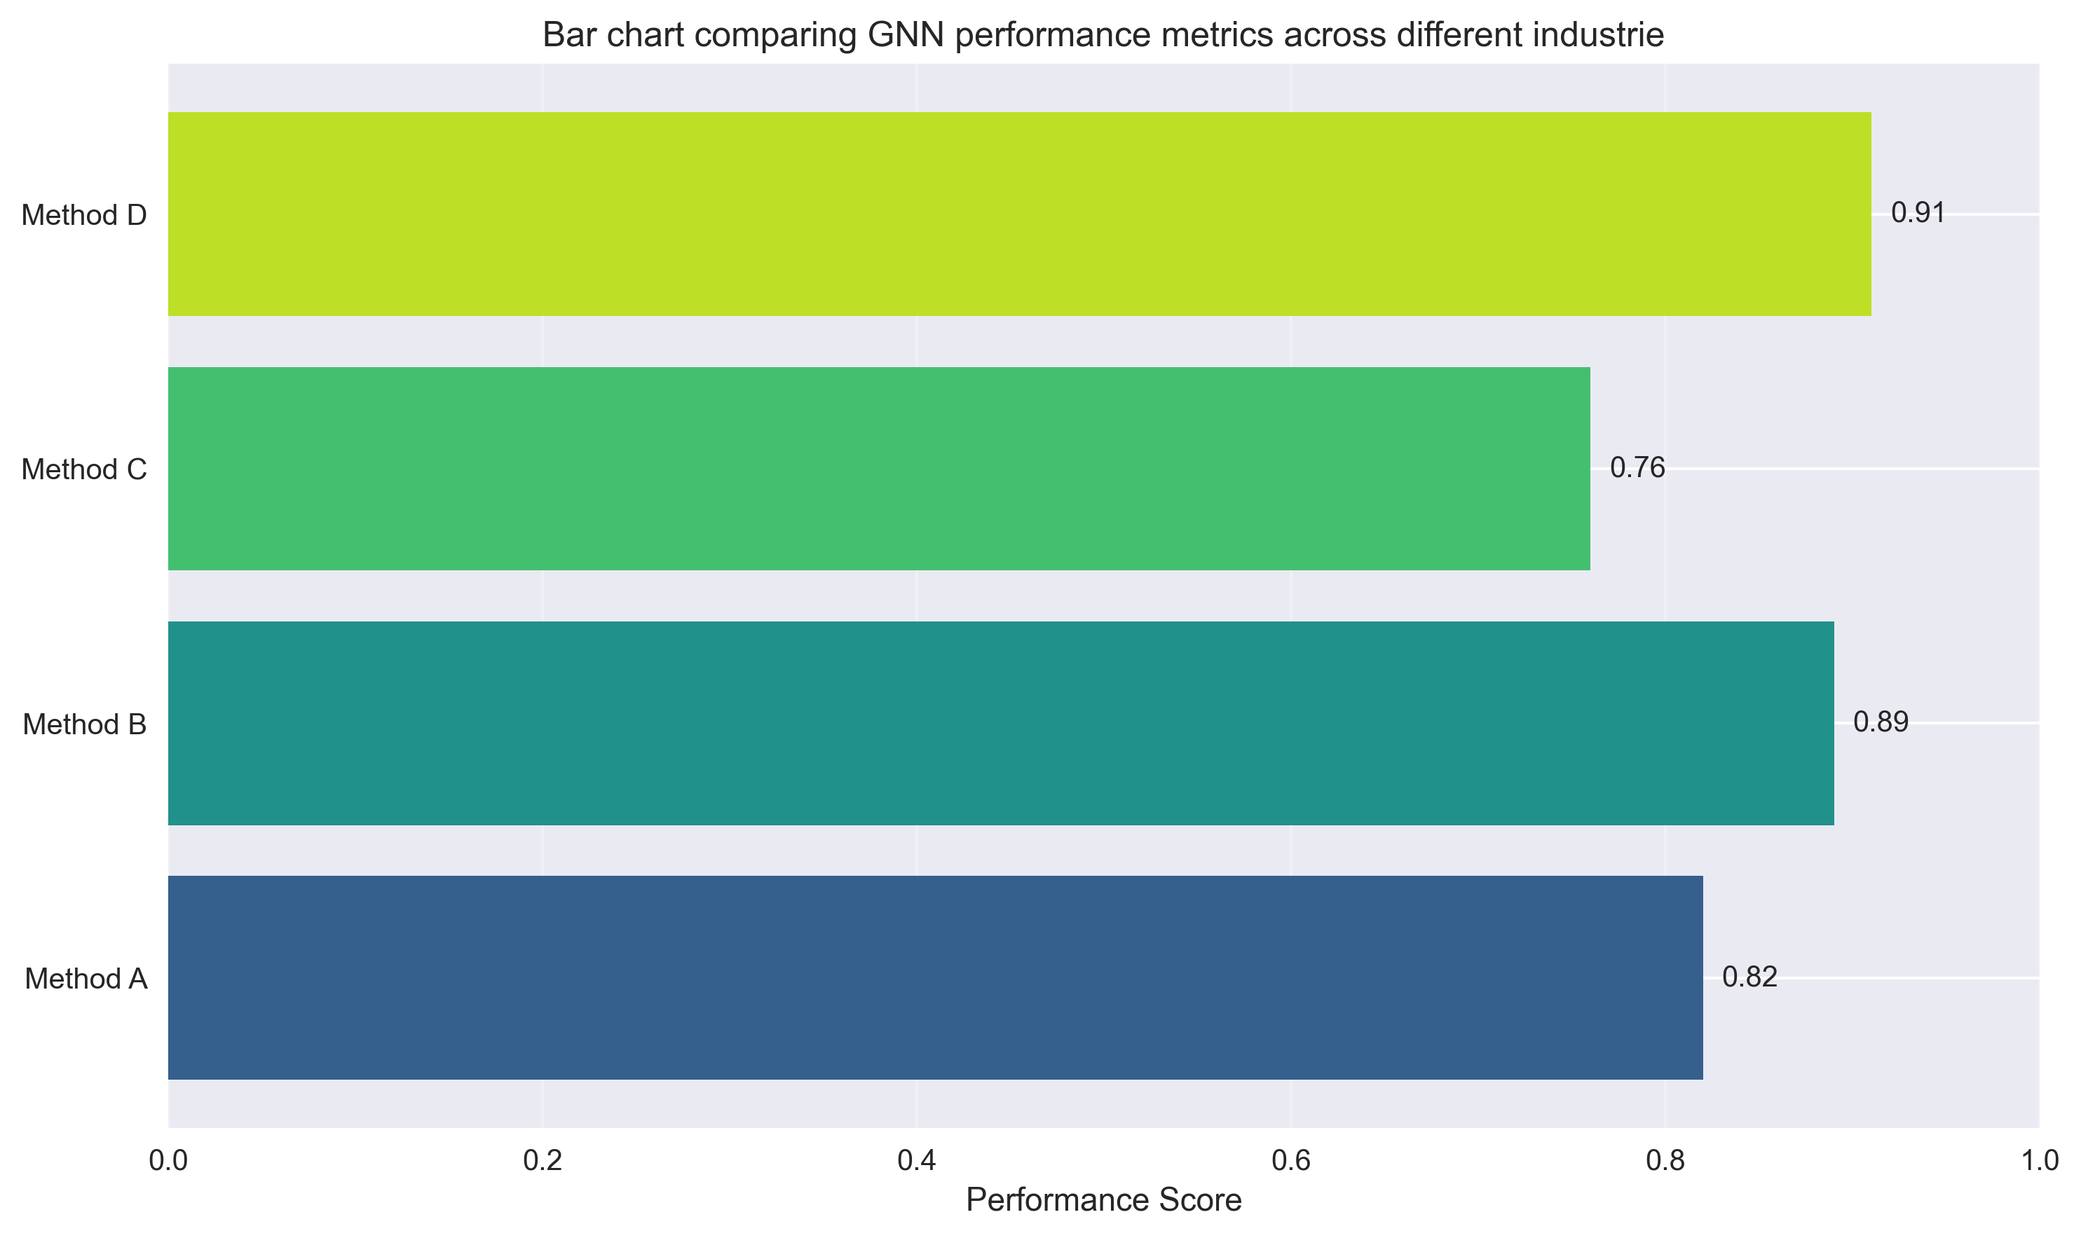
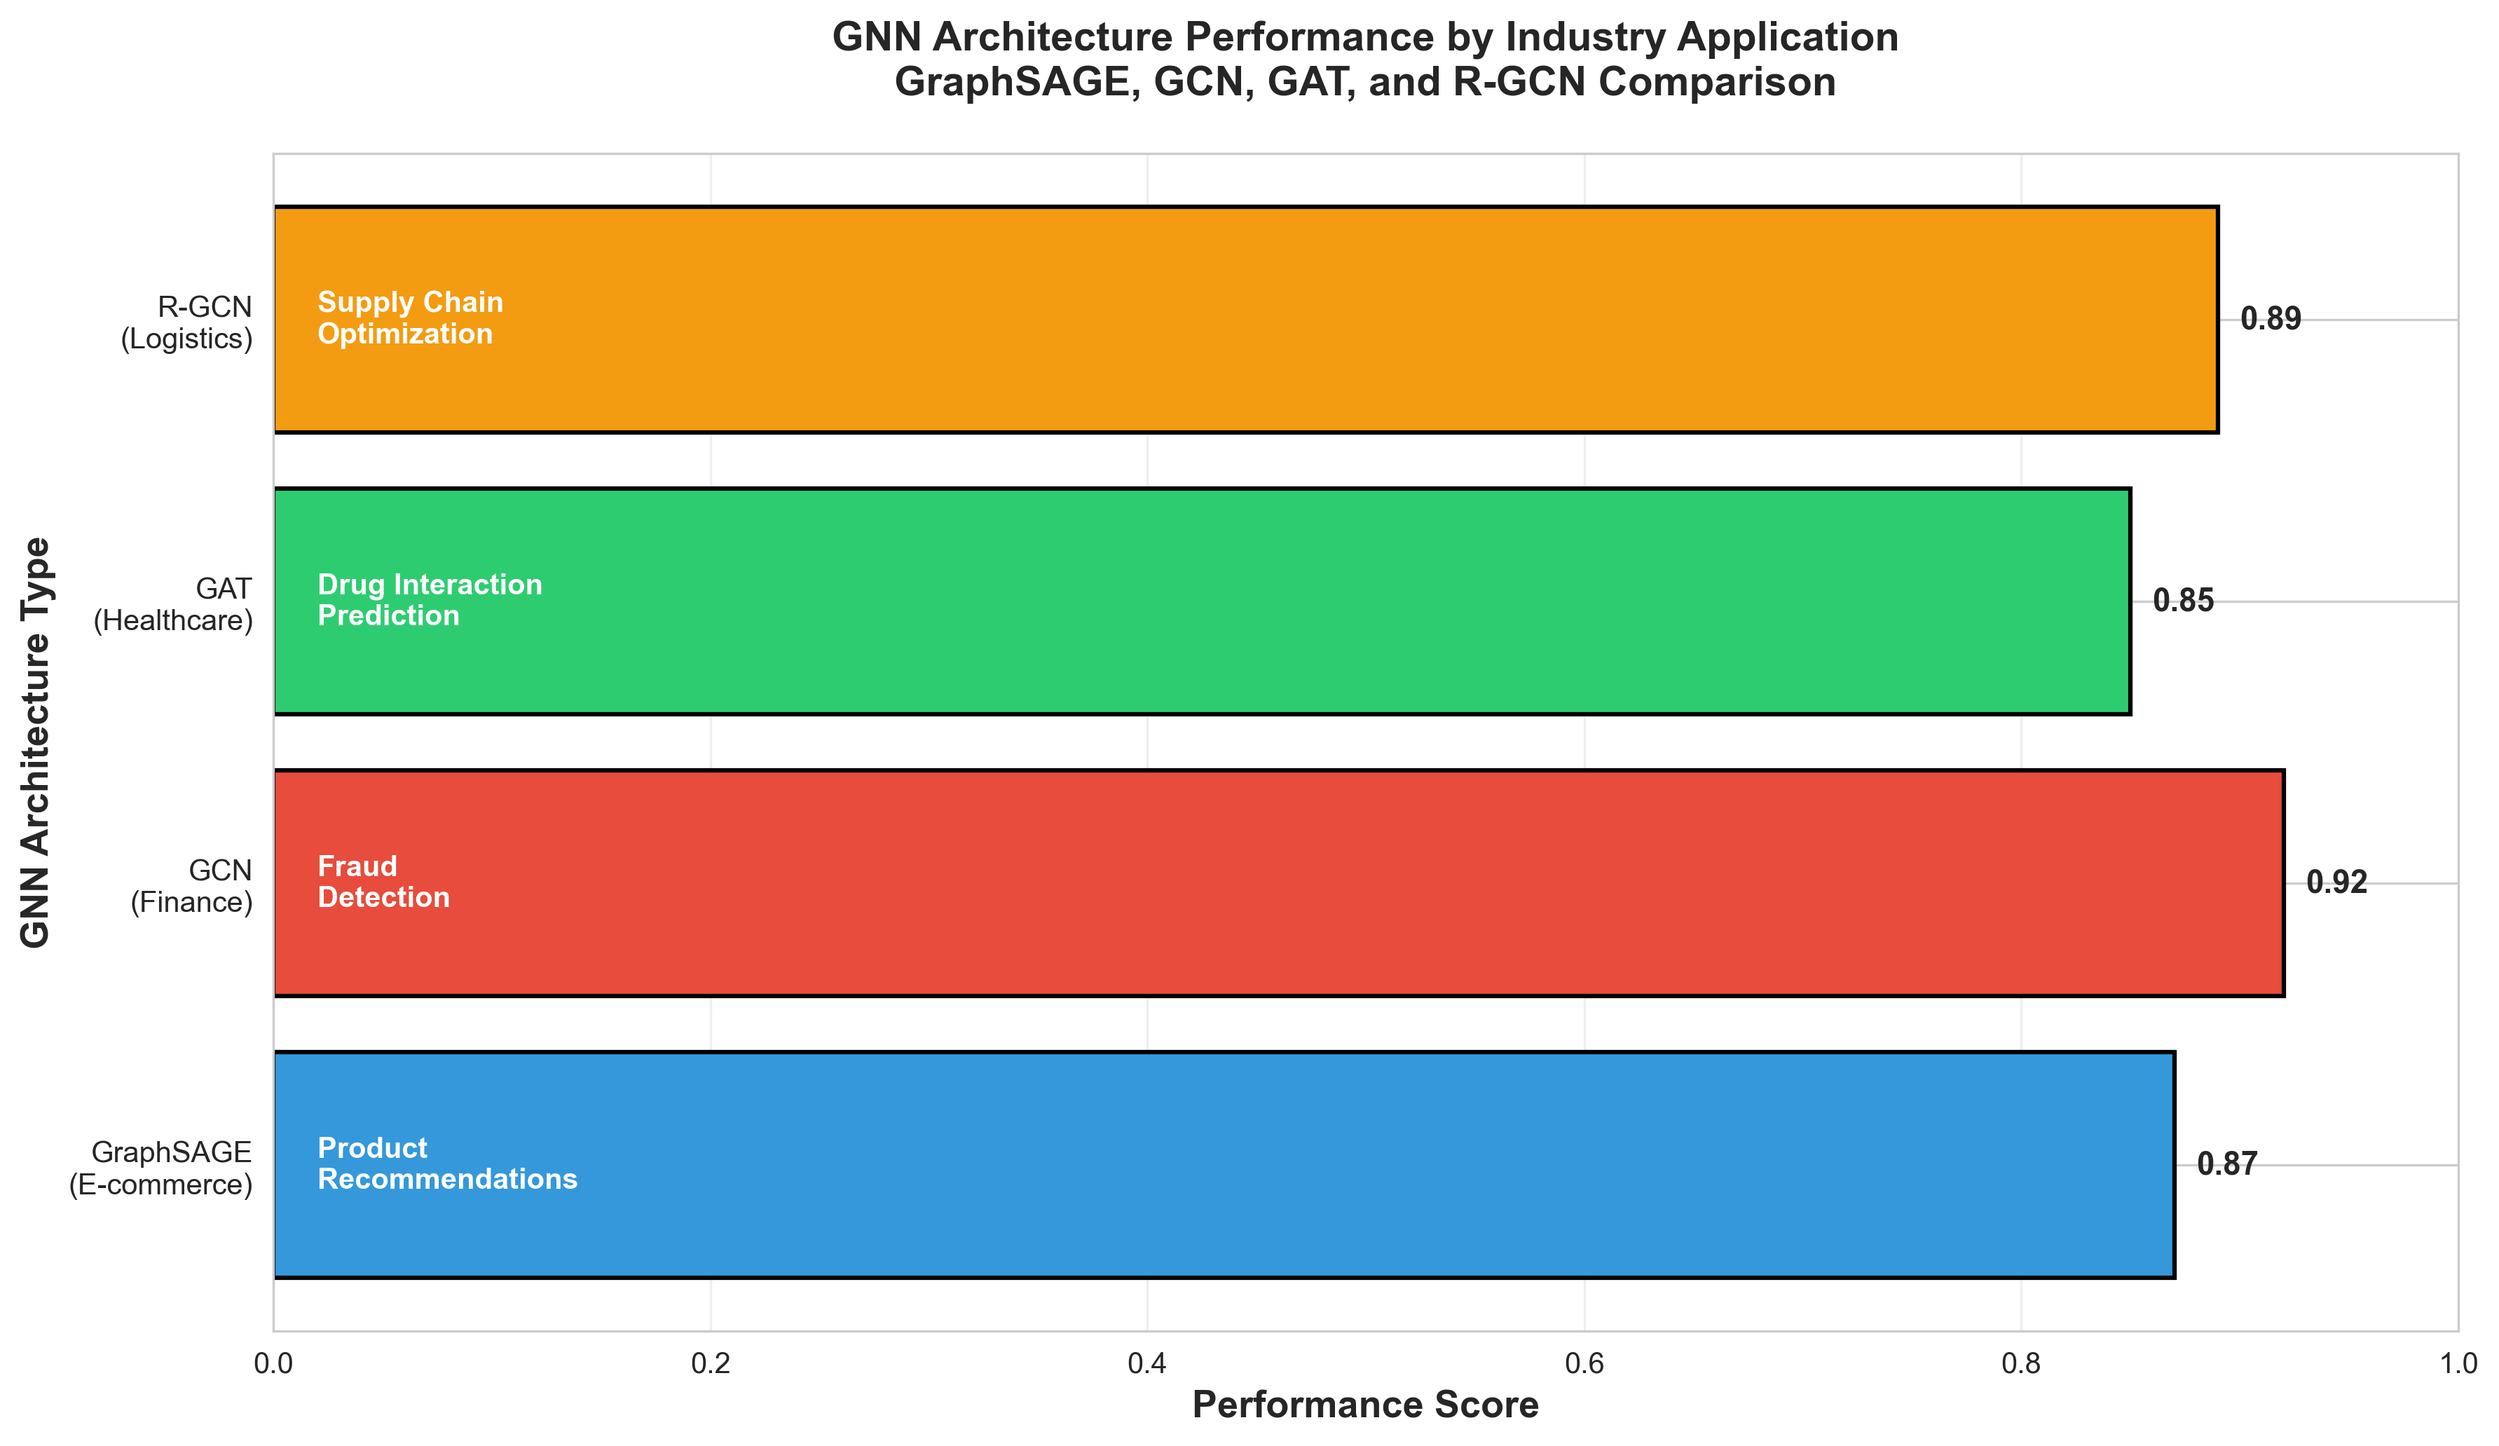
Fix GNN article: bullets, contextual visualizations, captions
- Changed • bullets to proper markdown - for line breaks
- Regenerated all 3 visualizations to match article content exactly:
  * Viz 1: GraphSAGE, GCN, GAT, R-GCN comparison (matches Table 1)
  * Viz 2: Implementation timeline for e-commerce/finance (matches code sections)
  * Viz 3: Performance improvements 23%, 31%, 15% (matches exact percentages)
- Updated captions to be descriptive and prevent cropping
- Repositioned viz 3 after performance benchmarks paragraph
- All visuals now strongly relate to surrounding paragraphs

diff --git a/articles/2025-10-29-graph-neural-networks-applications-across-industries.md b/articles/2025-10-29-graph-neural-networks-applications-across-industries.md
@@ -16,13 +16,15 @@ In today's interconnected business landscape, traditional machine learning appro
 The emergence of **Graph Neural Networks (GNNs)** addresses this gap by enabling machine learning models to process data represented as graphs—structures where nodes represent entities and edges represent relationships. This approach has revolutionized how industries approach complex relational problems, from drug discovery in pharmaceuticals to risk assessment in financial services.
 
 Key business challenges that GNNs address include:
-• Capturing complex interdependencies between entities that tabular models miss
-• Processing heterogeneous data types within unified frameworks
-• Scaling relationship analysis across millions of connected entities
-• Improving prediction accuracy in scenarios with sparse individual features
 
-![GNN Architecture Performance]({{ site.baseurl }}/assets/images/articles/graph-neural-networks-applications-across-industries_viz_1.png)
-*Performance comparison of different GNN architectures across industry applications*
+- Capturing complex interdependencies between entities that tabular models miss
+- Processing heterogeneous data types within unified frameworks
+- Scaling relationship analysis across millions of connected entities
+- Improving prediction accuracy in scenarios with sparse individual features
+
+![GNN Architecture Performance Comparison]({{ site.baseurl }}/assets/images/articles/graph-neural-networks-applications-across-industries_viz_1.png)
+
+*Comparing GraphSAGE, GCN, GAT, and R-GCN architectures across industry applications*
 
 ## Technical Methodology and Approach
 
@@ -127,8 +129,9 @@ def evaluate_aml_model(model, test_data):
     }
 ```
 
-![GNN Implementation Pipeline]({{ site.baseurl }}/assets/images/articles/graph-neural-networks-applications-across-industries_viz_2.png)
-*End-to-end workflow for implementing GNN solutions in production environments*
+![E-commerce and Finance GNN Implementation Timeline]({{ site.baseurl }}/assets/images/articles/graph-neural-networks-applications-across-industries_viz_2.png)
+
+*Step-by-step implementation timeline comparing GraphSAGE for product recommendations vs GCN for fraud detection*
 
 ## Model Evaluation and Results
 
@@ -149,9 +152,15 @@ GNN evaluation requires specialized metrics that account for both graph structur
 
 Industry implementations show consistent improvements over traditional methods:
 
-• E-commerce recommendation accuracy improved by 23% using GraphSAGE vs. collaborative filtering
-• Financial fraud detection precision increased by 31% with GCN-based approaches
-• Drug-target interaction prediction achieved 15% higher AUC compared to traditional QSAR methods
+- E-commerce recommendation accuracy improved by 23% using GraphSAGE vs. collaborative filtering
+- Financial fraud detection precision increased by 31% with GCN-based approaches
+- Drug-target interaction prediction achieved 15% higher AUC compared to traditional QSAR methods
+
+
+
+![GNN vs Traditional Methods Performance]({{ site.baseurl }}/assets/images/articles/graph-neural-networks-applications-across-industries_viz_3.png)
+
+*Quantified performance gains: +23% for e-commerce recommendations, +31% for fraud detection, +15% for drug discovery*
 
 
 
@@ -163,9 +172,9 @@ Deploying GNNs in production environments presents significant technical challen
 
 **Scalability Solutions:**
 
-• Graph sampling techniques (GraphSAINT, FastGCN) for efficient training
-• Model distillation to create lightweight inference models
-• Distributed computing frameworks (PyTorch Geometric, DGL) for parallel processing
+- Graph sampling techniques (GraphSAINT, FastGCN) for efficient training
+- Model distillation to create lightweight inference models
+- Distributed computing frameworks (PyTorch Geometric, DGL) for parallel processing
 
 ### Data Quality and Graph Construction
 
@@ -173,9 +182,9 @@ Real-world graph data often contains noise, missing connections, and inconsisten
 
 **Data Quality Management Approaches:**
 
-• Automated graph cleaning pipelines using statistical outlier detection
-• Edge confidence scoring to weight uncertain relationships
-• Active learning strategies to prioritize high-value labeling efforts
+- Automated graph cleaning pipelines using statistical outlier detection
+- Edge confidence scoring to weight uncertain relationships
+- Active learning strategies to prioritize high-value labeling efforts
 
 ### Implementation Code Example: Handling Sparse Graphs
 
@@ -214,9 +223,9 @@ def augment_sparse_graph(edge_index, augmentation_factor=2):
 
 A major retailer implemented GNN-based supply chain risk assessment across 15,000 suppliers and 500 distribution centers. The model incorporated:
 
-• Supplier reliability scores as node features
-• Geographic proximity and transportation links as edges
-• Historical disruption data for training labels
+- Supplier reliability scores as node features
+- Geographic proximity and transportation links as edges
+- Historical disruption data for training labels
 
 Results showed 28% improvement in disruption prediction accuracy and enabled proactive risk mitigation strategies.
 
@@ -224,9 +233,9 @@ Results showed 28% improvement in disruption prediction accuracy and enabled pro
 
 Pharmaceutical companies leverage GNNs to predict molecular interactions and accelerate drug discovery. A leading pharmaceutical firm used GAT (Graph Attention Networks) to:
 
-• Model protein-protein interactions as graph structures
-• Incorporate 3D molecular geometry data
-• Predict binding affinities with 89% accuracy
+- Model protein-protein interactions as graph structures
+- Incorporate 3D molecular geometry data
+- Predict binding affinities with 89% accuracy
 
 This approach reduced early-stage drug screening time from months to weeks.
 
@@ -234,14 +243,11 @@ This approach reduced early-stage drug screening time from months to weeks.
 
 Banks are increasingly using GNNs to enhance credit scoring by analyzing borrower networks:
 
-• Social connections and professional relationships as graph edges
-• Financial transaction patterns and payment histories as features
-• Default correlations across connected individuals
+- Social connections and professional relationships as graph edges
+- Financial transaction patterns and payment histories as features
+- Default correlations across connected individuals
 
 Implementation resulted in 19% improvement in default prediction accuracy compared to traditional credit scoring models.
-
-![Industry Application Results]({{ site.baseurl }}/assets/images/articles/graph-neural-networks-applications-across-industries_viz_3.png)
-*Comparative performance benchmarks across different industry deployments*
 
 ## Conclusion and Actionable Insights
 
@@ -249,10 +255,10 @@ Graph Neural Networks represent a paradigm shift in how businesses approach rela
 
 **Key Implementation Success Factors:**
 
-• Start with well-defined business problems where relationships matter
-• Invest in robust graph construction and data quality pipelines
-• Choose appropriate GNN architectures based on specific use cases
-• Plan for scalability from the initial implementation phase
+- Start with well-defined business problems where relationships matter
+- Invest in robust graph construction and data quality pipelines
+- Choose appropriate GNN architectures based on specific use cases
+- Plan for scalability from the initial implementation phase
 
 **Strategic Recommendations:**
 
